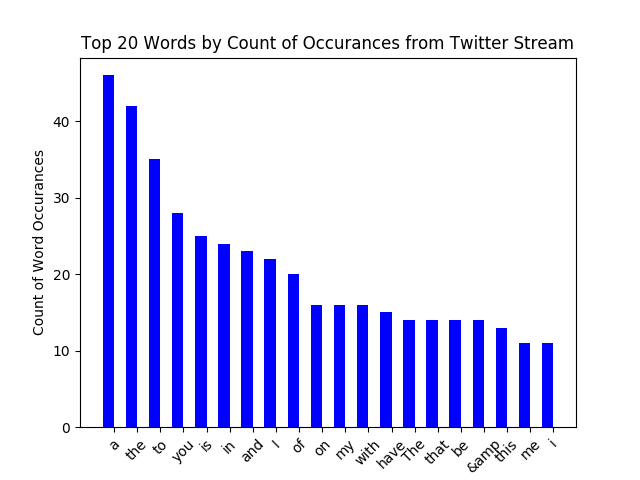
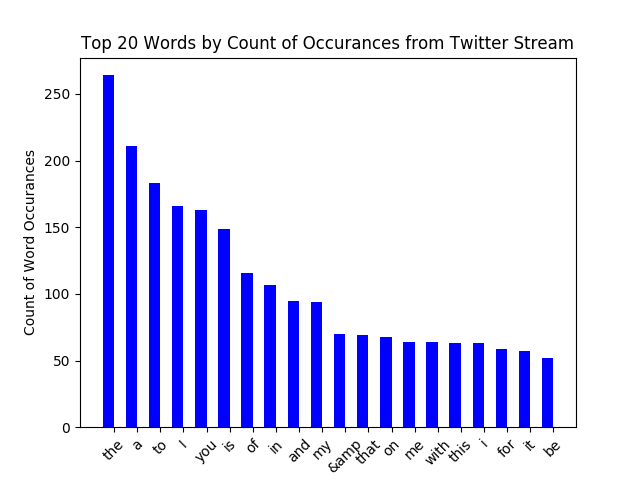
Adding files for exercise 2

diff --git a/exercise_2/extweetwordcount/src/spouts/tweets.py b/exercise_2/extweetwordcount/src/spouts/tweets.py
@@ -1,0 +1,89 @@
+from __future__ import absolute_import, print_function, unicode_literals
+
+import itertools, time
+import tweepy, copy 
+import Queue, threading
+# from params import *
+# import simplejson
+
+from streamparse.spout import Spout
+
+################################################################################
+# Twitter credentials
+################################################################################
+twitter_credentials = {
+     "consumer_key"        :  "weZzP6GKDXTdGwEaxVOjPYNHe",
+     "consumer_secret"     :  "1DrNz2wWzhioVCIImRlXL6xD9eWfsuKIqYYV6ibuQwKhuEveob",
+     "access_token"        :  "3091270306-CV4H7R5lK87fHKmNjxpMLn0Scj6oRH0G7e7V1IZ",
+     "access_token_secret" :  "NiM3cvpOGKsAi2Eo1dMd2SRKxEMw9acoA81DU28va78rG",
+ }
+
+def auth_get(auth_key):
+    if auth_key in twitter_credentials:
+        return twitter_credentials[auth_key]
+    return None
+
+################################################################################
+# Class to listen and act on the incoming tweets
+################################################################################
+class TweetStreamListener(tweepy.StreamListener):
+
+    def __init__(self, listener):
+        self.listener = listener
+        super(self.__class__, self).__init__(listener.tweepy_api())
+
+    def on_status(self, status):
+        self.listener.queue().put(status.text, timeout = 0.01)
+        return True
+  
+    def on_error(self, status_code):
+        return True # keep stream alive
+  
+    def on_limit(self, track):
+        return True # keep stream alive
+
+class Tweets(Spout):
+
+    def initialize(self, stormconf, context):
+        self._queue = Queue.Queue(maxsize = 100)
+
+        consumer_key = auth_get("consumer_key") 
+        consumer_secret = auth_get("consumer_secret") 
+        auth = tweepy.OAuthHandler(consumer_key, consumer_secret)
+
+        if auth_get("access_token") and auth_get("access_token_secret"):
+            access_token = auth_get("access_token")
+            access_token_secret = auth_get("access_token_secret")
+            auth.set_access_token(access_token, access_token_secret)
+
+        self._tweepy_api = tweepy.API(auth)
+
+        # Create the listener for twitter stream
+        listener = TweetStreamListener(self)
+
+        # Create the stream and listen for english tweets
+        stream = tweepy.Stream(auth, listener, timeout=None)
+        stream.filter(languages=["en"], track=["a", "the", "i", "you", "u"], async=True)
+
+    def queue(self):
+        return self._queue
+
+    def tweepy_api(self):
+        return self._tweepy_api
+
+    def next_tuple(self):
+        try:
+            tweet = self.queue().get(timeout = 0.1) 
+            if tweet:
+                self.queue().task_done()
+                self.emit([tweet])
+ 
+        except Queue.Empty:
+            self.log("Empty queue exception ")
+            time.sleep(0.1) 
+
+    def ack(self, tup_id):
+        pass  # if a tuple is processed properly, do nothing
+
+    def fail(self, tup_id):
+        pass  # if a tuple fails to process, do nothing

diff --git a/exercise_2/Twittercredentials.py b/exercise_2/Twittercredentials.py
@@ -1,21 +1,18 @@
-###
- File containing twitter credentials. Needed for access to tweepy. 
- Should remain untracked 
-###
-
 import tweepy
 
-consumer_key = "";
+consumer_key = "weZzP6GKDXTdGwEaxVOjPYNHe";
 #eg: consumer_key = "YisfFjiodKtojtUvW4MSEcPm";
 
-consumer_secret = "";
+
+consumer_secret = "1DrNz2wWzhioVCIImRlXL6xD9eWfsuKIqYYV6ibuQwKhuEveob";
[1 lines of base64/hex data omitted]
 
-access_token = "";
+access_token = "3091270306-CV4H7R5lK87fHKmNjxpMLn0Scj6oRH0G7e7V1IZ";
[1 lines of base64/hex data omitted]
 
-access_token_secret = "";
[1 lines of base64/hex data omitted]
+access_token_secret = "NiM3cvpOGKsAi2Eo1dMd2SRKxEMw9acoA81DU28va78rG";
[1 lines of base64/hex data omitted]
+
 
 auth = tweepy.OAuthHandler(consumer_key, consumer_secret)
 auth.set_access_token(access_token, access_token_secret)

diff --git a/exercise_2/histogram.py b/exercise_2/histogram.py
@@ -32,7 +32,9 @@ if k1 > k2:
 SQL = "select * from tweetwordcount WHERE count >= %s AND count <= %s ORDER BY count"
 cur.execute(SQL, (k1,k2))
 rows = cur.fetchall()
-for row in rows:
-	print "%s: %d" % (row[0], row[1])
-
+if len(rows) > 0:
+	for row in rows:
+		print "%s: %d" % (row[0], row[1])
+else: 
+	print "No words with counts between %d and %d in tweetwordcount table" % (k1, k2)
  
